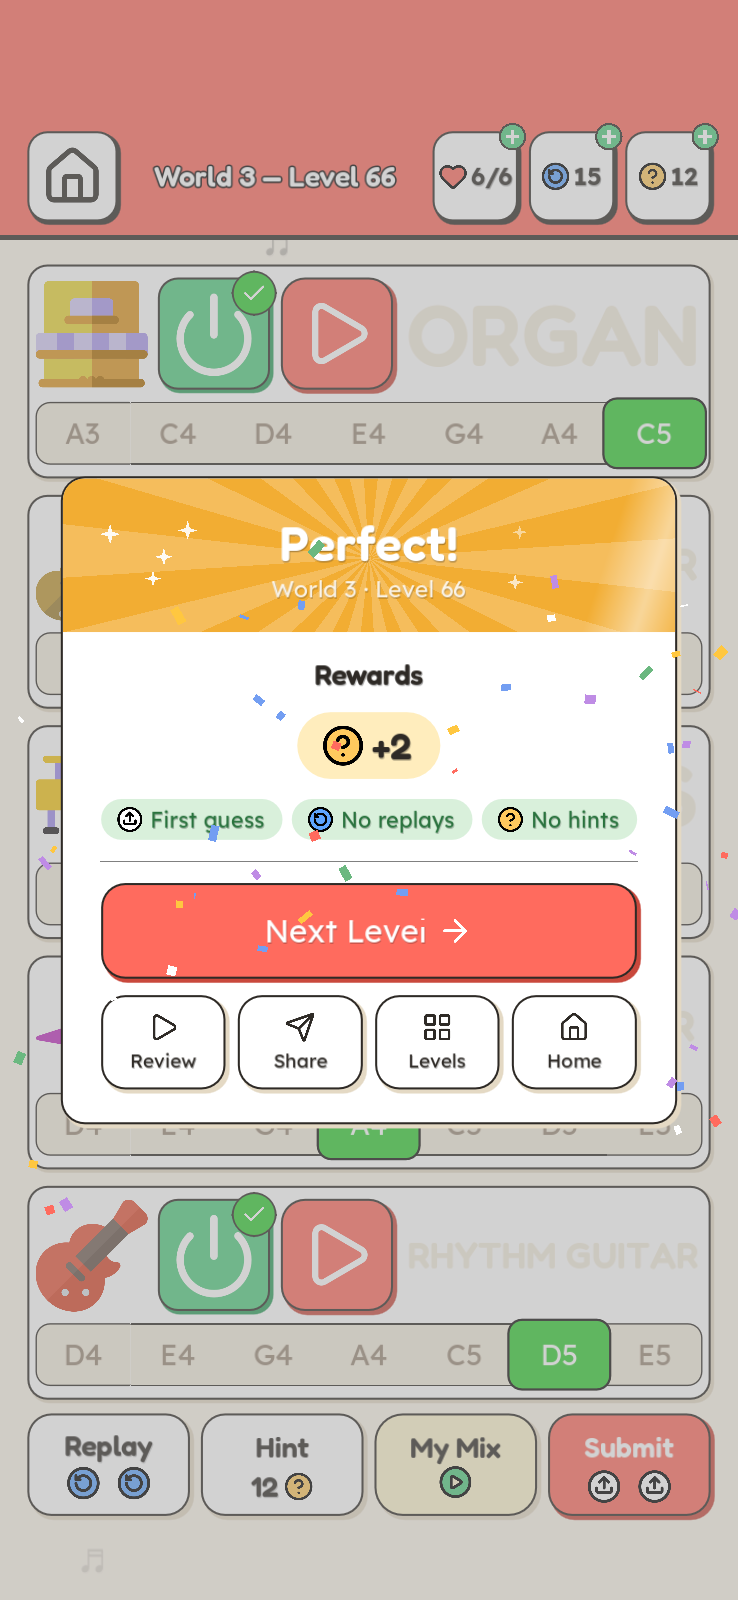
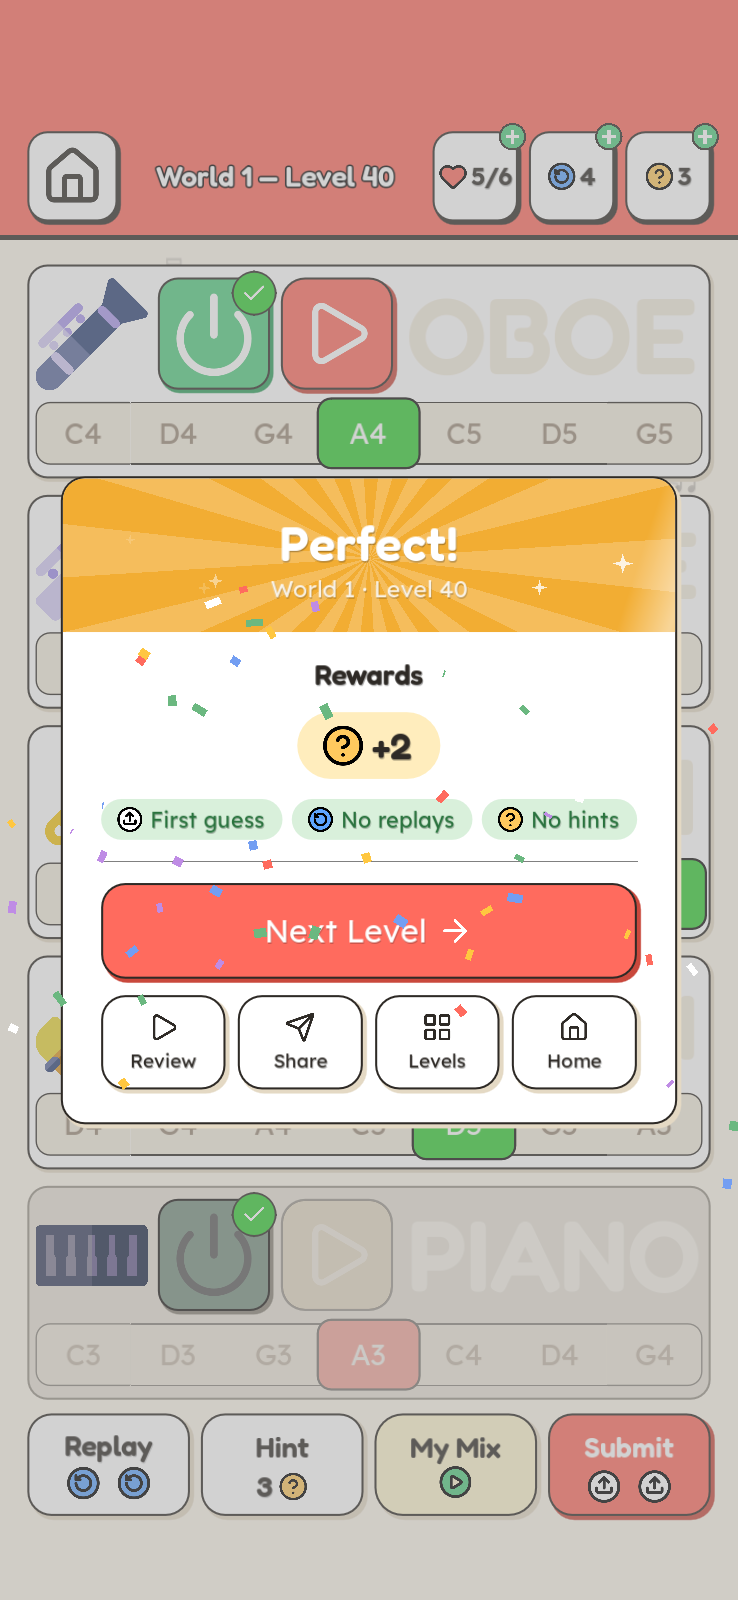
Hero screenshots: classical level, mid-game board, no main menu
The board shot showed every note green, which gives away the answer and
doesn't look like play. It's now World 1 Level 40 (Classical) after a
wrong guess: one note red, one earlier miss pink, smaller banks. The
listen shot caught "Listen carefully!" mid letter-hop; the wave is held
still now. The main menu shot is dropped.

diff --git a/copy.js b/copy.js
@@ -86,9 +86,8 @@ window.HARMONIA_COPY = {
     "/assets/screenshots/2_result_perfect.png",
     "/assets/screenshots/3_daily_lobby.png",
     "/assets/screenshots/4_daily_complete.png",
-    "/assets/screenshots/5_main_menu.png",
-    "/assets/screenshots/6_level_select.png",
-    "/assets/screenshots/7_listen.png",
+    "/assets/screenshots/5_level_select.png",
+    "/assets/screenshots/6_listen.png",
   ],
   // Milliseconds each screenshot stays on screen before sliding on.
   screenshotInterval: 4000,
